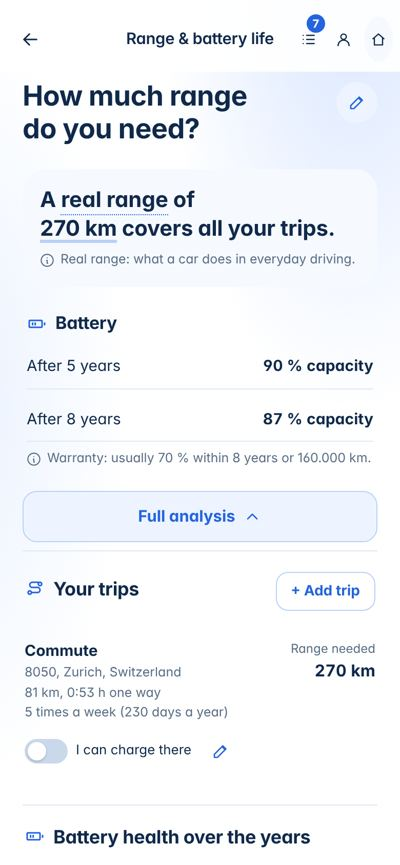
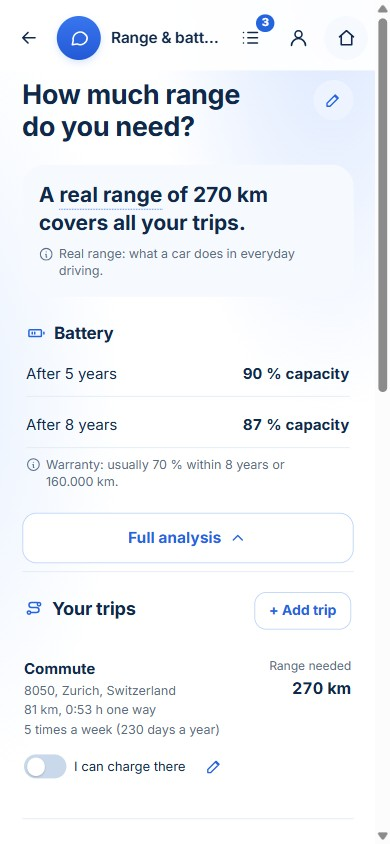
Refresh key screen map previews

diff --git a/public/map/index.html b/public/map/index.html
@@ -65,7 +65,7 @@ svg.wires{position:absolute;left:0;top:0;overflow:visible;pointer-events:none}
 </head>
 <body>
 <header>
-  <div><h1>BEV Navigator · every screen</h1><div class="sub">Start → Questions → Summary → five topics · tap a screen to see it full length · screenshots from V8.3</div></div>
+  <div><h1>BEV Navigator · every screen</h1><div class="sub">Start → Questions → Summary → five topics · tap a screen to see it full length · updated: Start, Assistant, Summary, Range, Charging, Car fit; remaining screenshots are V8.3</div></div>
   <div class="legend"><span><i></i>main way</span><span><i class="a"></i>other way</span><span><i class="q"></i>next question</span><span>Back arrow: always the page before</span></div>
   <div class="zoom"><button id="zo" aria-label="Zoom out">−</button><button id="fit">Fit</button><button id="zi" aria-label="Zoom in">+</button></div>
 </header>

diff --git a/ui-loop/tools/tpl.html b/ui-loop/tools/tpl.html
@@ -65,7 +65,7 @@ svg.wires{position:absolute;left:0;top:0;overflow:visible;pointer-events:none}
 </head>
 <body>
 <header>
-  <div><h1>BEV Navigator · every screen</h1><div class="sub">Start → Questions → Summary → five topics · tap a screen to see it full length · screenshots from V8.3</div></div>
+  <div><h1>BEV Navigator · every screen</h1><div class="sub">Start → Questions → Summary → five topics · tap a screen to see it full length · updated: Start, Assistant, Summary, Range, Charging, Car fit; remaining screenshots are V8.3</div></div>
   <div class="legend"><span><i></i>main way</span><span><i class="a"></i>other way</span><span><i class="q"></i>next question</span><span>Back arrow: always the page before</span></div>
   <div class="zoom"><button id="zo" aria-label="Zoom out">−</button><button id="fit">Fit</button><button id="zi" aria-label="Zoom in">+</button></div>
 </header>

diff --git a/ui-loop/SCREENS.md b/ui-loop/SCREENS.md
@@ -1,9 +1,12 @@
 # Text of every screen (390 px, saved n8n answers)
 
+Start, Assistant, Summary and reset copy reflects V8.4. Other screen text is from the V8.3 snapshot; use the live app for current details.
+
 Screenshots: https://icy-snowflake-1754.ricordatilamail18.workers.dev/map/ · ids as in the map. First line = title in the top bar.
 
 ## home-empty
 ```
+BEV Navigator
 What's holding you back?
 What factors, if any, are making you hesitate to switch to an electric car?
 Range & battery life
@@ -12,31 +15,31 @@ Costs & resale value
 Climate impact
 Which electric car fits me
 Check all topics
-Or tell us about you in your own words
+Tell us in your own words
 ```
 
 ## home-picked
 ```
+BEV Navigator
 What's holding you back?
 What factors, if any, are making you hesitate to switch to an electric car?
-Charging access
 Range & battery life
+Charging access
 Costs & resale value
 Climate impact
 Which electric car fits me
 Continue
-Or tell us about you in your own words
+Tell us in your own words
+Start fresh
 ```
 
 ## assistant
 ```
 Assistant
 I’m here to help
-About: Start page
-Hi! I can explain the question you are on, your result and its sources. I do not change your answers unless you confirm it.
+Ask me about this page or your results.
 What can the Navigator tell me?
 Which topic should I start with?
-Answers use the figures and sources of this page.
 ```
 
 ## q1
@@ -527,7 +530,7 @@ Full analysis
 Edit your inputs
 What can you do next?
 Check the battery of a used EV
-Add or change a trip
+Edit your trips
 Save as PDF
 Email me this result
 Continue with Costs & resale value
@@ -575,7 +578,7 @@ Sources & our assumptions
 Edit your inputs
 What can you do next?
 Check the battery of a used EV
-Add or change a trip
+Edit your trips
 Save as PDF
 Email me this result
 Continue with Costs & resale value
@@ -1149,9 +1152,6 @@ Summary
 Topics 6/6
 Takeaway
 An electric car covers your trips, but costs about CHF 42.100 more over 6 years in this comparison.
-2 work for you
-3 with a limitation
-1 still open
 Simple
 With the numbers
 Your topics
@@ -1194,9 +1194,6 @@ Summary
 Topics 6/6
 Takeaway
 An electric car covers your trips, but costs about CHF 42.100 more over 6 years in this comparison.
-2 work for you
-3 with a limitation
-1 still open
 Simple
 With the numbers
 Your topics
@@ -1235,16 +1232,18 @@ Sources (3)
 
 ## home-results
 ```
+BEV Navigator
 What's holding you back?
 What factors, if any, are making you hesitate to switch to an electric car?
-Charging access
 Range & battery life
+Charging access
 Costs & resale value
 Climate impact
 Which electric car fits me
 Recalculate
 Your results
-Or tell us about you in your own words
+Tell us in your own words
+Start fresh
 ```
 
 ## answers
@@ -1280,6 +1279,7 @@ Done
 Which car fits me
 Done
 ›
+Start fresh
 ```
 
 ## answer-edit
@@ -1345,10 +1345,10 @@ Save
 ## reset
 ```
 Your data
-Delete your answers?
-This removes your answers, your topics and your results from this browser. It cannot be undone.
+Start fresh?
+This clears the answers, topics and results saved in this browser. It cannot be undone.
 Keep my data
-Delete my data
+Start fresh
 ```
 
 ## orient

diff --git a/ui-loop/STATE.md b/ui-loop/STATE.md
@@ -1,6 +1,6 @@
 # State – updated by Claude after every round
 
-Version: **V8.4** (18 Nov 2026, Codex direct UI updates: f03862e and d222b05; V8.3 = answers review 002)
+Version: **V8.4** (18 Nov 2026, Codex direct UI updates through 34fc583; V8.3 = answers review 002)
 Live app: https://icy-snowflake-1754.ricordatilamail18.workers.dev
 Screen map (45 screens, wires = taps): https://icy-snowflake-1754.ricordatilamail18.workers.dev/map/
 Text of every screen: `ui-loop/SCREENS.md`
@@ -8,7 +8,7 @@ Last response: `outbox/response-002.md` (review 002)
 Loop: the scheduled Claude run is stopped. Codex implements and deploys directly while Simone reviews the map.
 
 ## Changed in V8.4
-Start actions are separated from five topic keys; pressed keys are softer. The top badge counts selected topics; Start and Your answers link to Start fresh. Summary loses its three counters; the car-fit range loses its underline. Assistant is available on every screen with shorter copy and a send icon. Range and Charging expose the trip editor from their results. The map shows the five topic results in one row and the Start fresh links. Map screenshots still show V8.3 and need a refresh after the UI review.
+Start actions are separated from five topic keys; pressed keys are softer. The top badge counts selected topics; Start and Your answers link to Start fresh. Summary loses its three counters; the car-fit range loses its underline. Assistant is available in the top bar with shorter copy and a send icon. Full-width action icons align on the left. Range and Charging expose the trip editor from their results; changing kilometres on a distance-only trip keeps its country. The map has a clickable overview and the five topic results in one row. Start, Assistant, reset, Summary, answers, Range, Charging and Car fit screenshots are current; other screenshots still show V8.3.
 
 ## How to see a screen yourself
 Open the live app on a phone-size window. Answers stay in the browser (localStorage `bevnav.v1`). Results come from n8n live, 5–40 s per topic.
